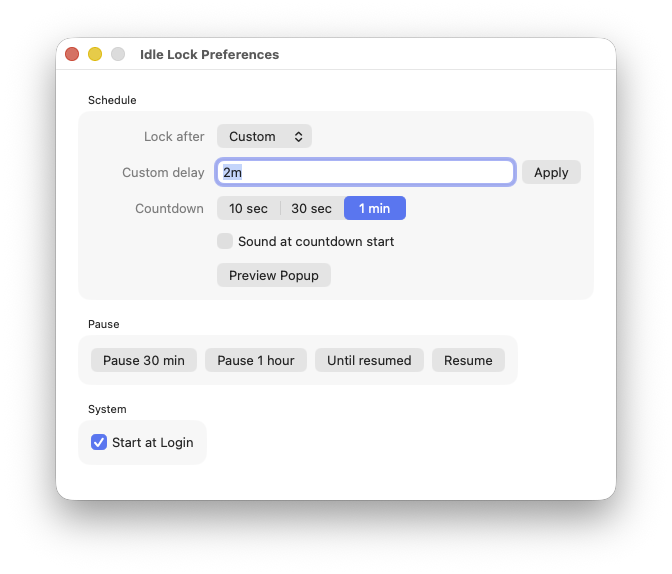
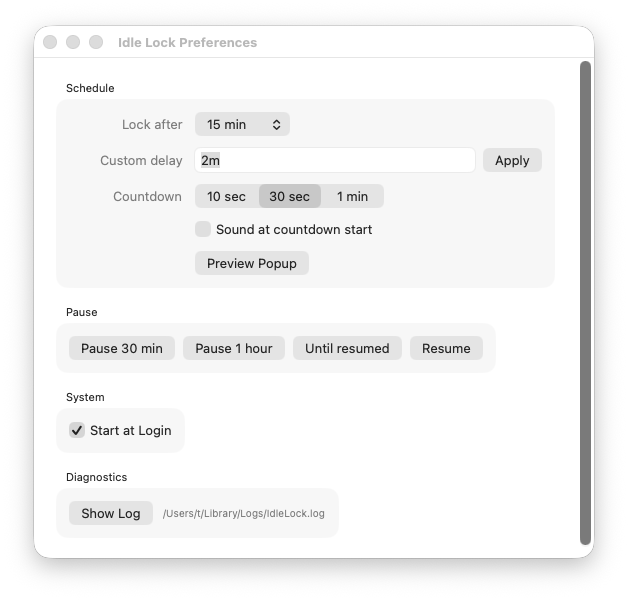
Bump version and restore log button

Changed region(s): [[0.0605, 0.0592, 0.9682, 0.9477]]

diff --git a/Sources/IdleLockCore/PreferencesWindow.swift b/Sources/IdleLockCore/PreferencesWindow.swift
@@ -6,18 +6,21 @@ public final class PreferencesWindowController {
     private let monitor: IdleMonitor
     private let launchAgent: LaunchAgentService
     private let logger: IdleLockLogger
+    private let showLog: () -> Void
     private var window: NSWindow?
 
     public init(
         settings: AppSettings,
         monitor: IdleMonitor,
         launchAgent: LaunchAgentService,
-        logger: IdleLockLogger
+        logger: IdleLockLogger,
+        showLog: @escaping () -> Void
     ) {
         self.settings = settings
         self.monitor = monitor
         self.launchAgent = launchAgent
         self.logger = logger
+        self.showLog = showLog
     }
 
     public func show() {
@@ -26,13 +29,14 @@ public final class PreferencesWindowController {
                 settings: settings,
                 monitor: monitor,
                 launchAgent: launchAgent,
-                logger: logger
+                logger: logger,
+                showLog: showLog
             )
             let hosting = NSHostingController(rootView: view)
             let created = NSWindow(contentViewController: hosting)
             created.title = "Idle Lock Preferences"
             created.styleMask = [.titled, .closable, .miniaturizable]
-            created.setContentSize(NSSize(width: 560, height: 430))
+            created.setContentSize(NSSize(width: 560, height: 500))
             created.center()
             window = created
         }
@@ -47,6 +51,7 @@ private struct PreferencesView: View {
     let monitor: IdleMonitor
     let launchAgent: LaunchAgentService
     let logger: IdleLockLogger
+    let showLog: () -> Void
 
     @State private var customDelayText: String = ""
 
@@ -118,6 +123,21 @@ private struct PreferencesView: View {
                 GroupBox("System") {
                     VStack(alignment: .leading, spacing: 10) {
                         Toggle("Start at Login", isOn: startAtLoginBinding)
+                    }
+                    .padding(8)
+                }
+
+                GroupBox("Diagnostics") {
+                    HStack(spacing: 10) {
+                        Button("Show Log") {
+                            showLog()
+                        }
+
+                        Text(logger.logURL.path)
+                            .font(.caption)
+                            .foregroundStyle(.secondary)
+                            .lineLimit(1)
+                            .truncationMode(.middle)
                     }
                     .padding(8)
                 }

diff --git a/Sources/IdleLockCore/IdleLockApplication.swift b/Sources/IdleLockCore/IdleLockApplication.swift
@@ -26,6 +26,7 @@ private final class AppDelegate: NSObject, NSApplicationDelegate {
     private let monitor: IdleMonitor
     private var menuController: MenuController?
     private var preferencesWindow: PreferencesWindowController?
+    private var logWindow: LogWindowController?
 
     override init() {
         self.settings = AppSettings()
@@ -52,11 +53,13 @@ private final class AppDelegate: NSObject, NSApplicationDelegate {
             return
         }
 
+        logWindow = LogWindowController(logger: logger)
         preferencesWindow = PreferencesWindowController(
             settings: settings,
             monitor: monitor,
             launchAgent: launchAgent,
-            logger: logger
+            logger: logger,
+            showLog: { [weak self] in self?.logWindow?.show() }
         )
 
         menuController = MenuController(

diff --git a/docs/DEVELOPMENT.md b/docs/DEVELOPMENT.md
@@ -66,13 +66,13 @@ scripts/package-app.sh
 Output:
 
 ```text
-dist/IdleLock-1.0.pkg
+dist/IdleLock-1.0.1.pkg
 ```
 
 Check package signing:
 
 ```sh
-pkgutil --check-signature dist/IdleLock-1.0.pkg
+pkgutil --check-signature dist/IdleLock-1.0.1.pkg
 ```
 
 ## DMG
@@ -84,7 +84,7 @@ scripts/package-dmg.sh
 Output:
 
 ```text
-dist/LockAnyway-1.0.dmg
+dist/LockAnyway-1.0.1.dmg
 ```
 
 The DMG flow is drag-to-Applications. The app refuses to run from `/Volumes/...` so users do not accidentally bind Accessibility permission or Start at Login to the mounted image.

diff --git a/README.md b/README.md
@@ -59,7 +59,7 @@ scripts/package-dmg.sh
 Then open:
 
 ```text
-dist/LockAnyway-1.0.dmg
+dist/LockAnyway-1.0.1.dmg
 ```
 
 Drag `Idle Lock.app` to Applications, then open it from `/Applications`. The app intentionally refuses to run from the mounted disk image so Start at Login and Accessibility permission stay attached to the installed copy.
@@ -73,7 +73,7 @@ scripts/package-app.sh
 Then open the package in Finder:
 
 ```text
-dist/IdleLock-1.0.pkg
+dist/IdleLock-1.0.1.pkg
 ```
 
 The current package installs:

diff --git a/docs/INSTALL.md b/docs/INSTALL.md
@@ -11,7 +11,7 @@ scripts/package-dmg.sh
 Open:
 
 ```text
-dist/LockAnyway-1.0.dmg
+dist/LockAnyway-1.0.1.dmg
 ```
 
 Drag `Idle Lock.app` to Applications, then open it from:
@@ -33,7 +33,7 @@ scripts/package-app.sh
 Open this package in Finder:
 
 ```text
-dist/IdleLock-1.0.pkg
+dist/IdleLock-1.0.1.pkg
 ```
 
 The current package installs:

diff --git a/docs/TROUBLESHOOTING.md b/docs/TROUBLESHOOTING.md
@@ -86,7 +86,7 @@ If `/Applications/Idle Lock.app` is root-owned or unwritable, build a package an
 
 ```sh
 scripts/package-app.sh
-open dist/IdleLock-1.0.pkg
+open dist/IdleLock-1.0.1.pkg
 ```
 
 Do not add an AppleScript `with administrator privileges` fallback to the reload script without an explicit reason.
